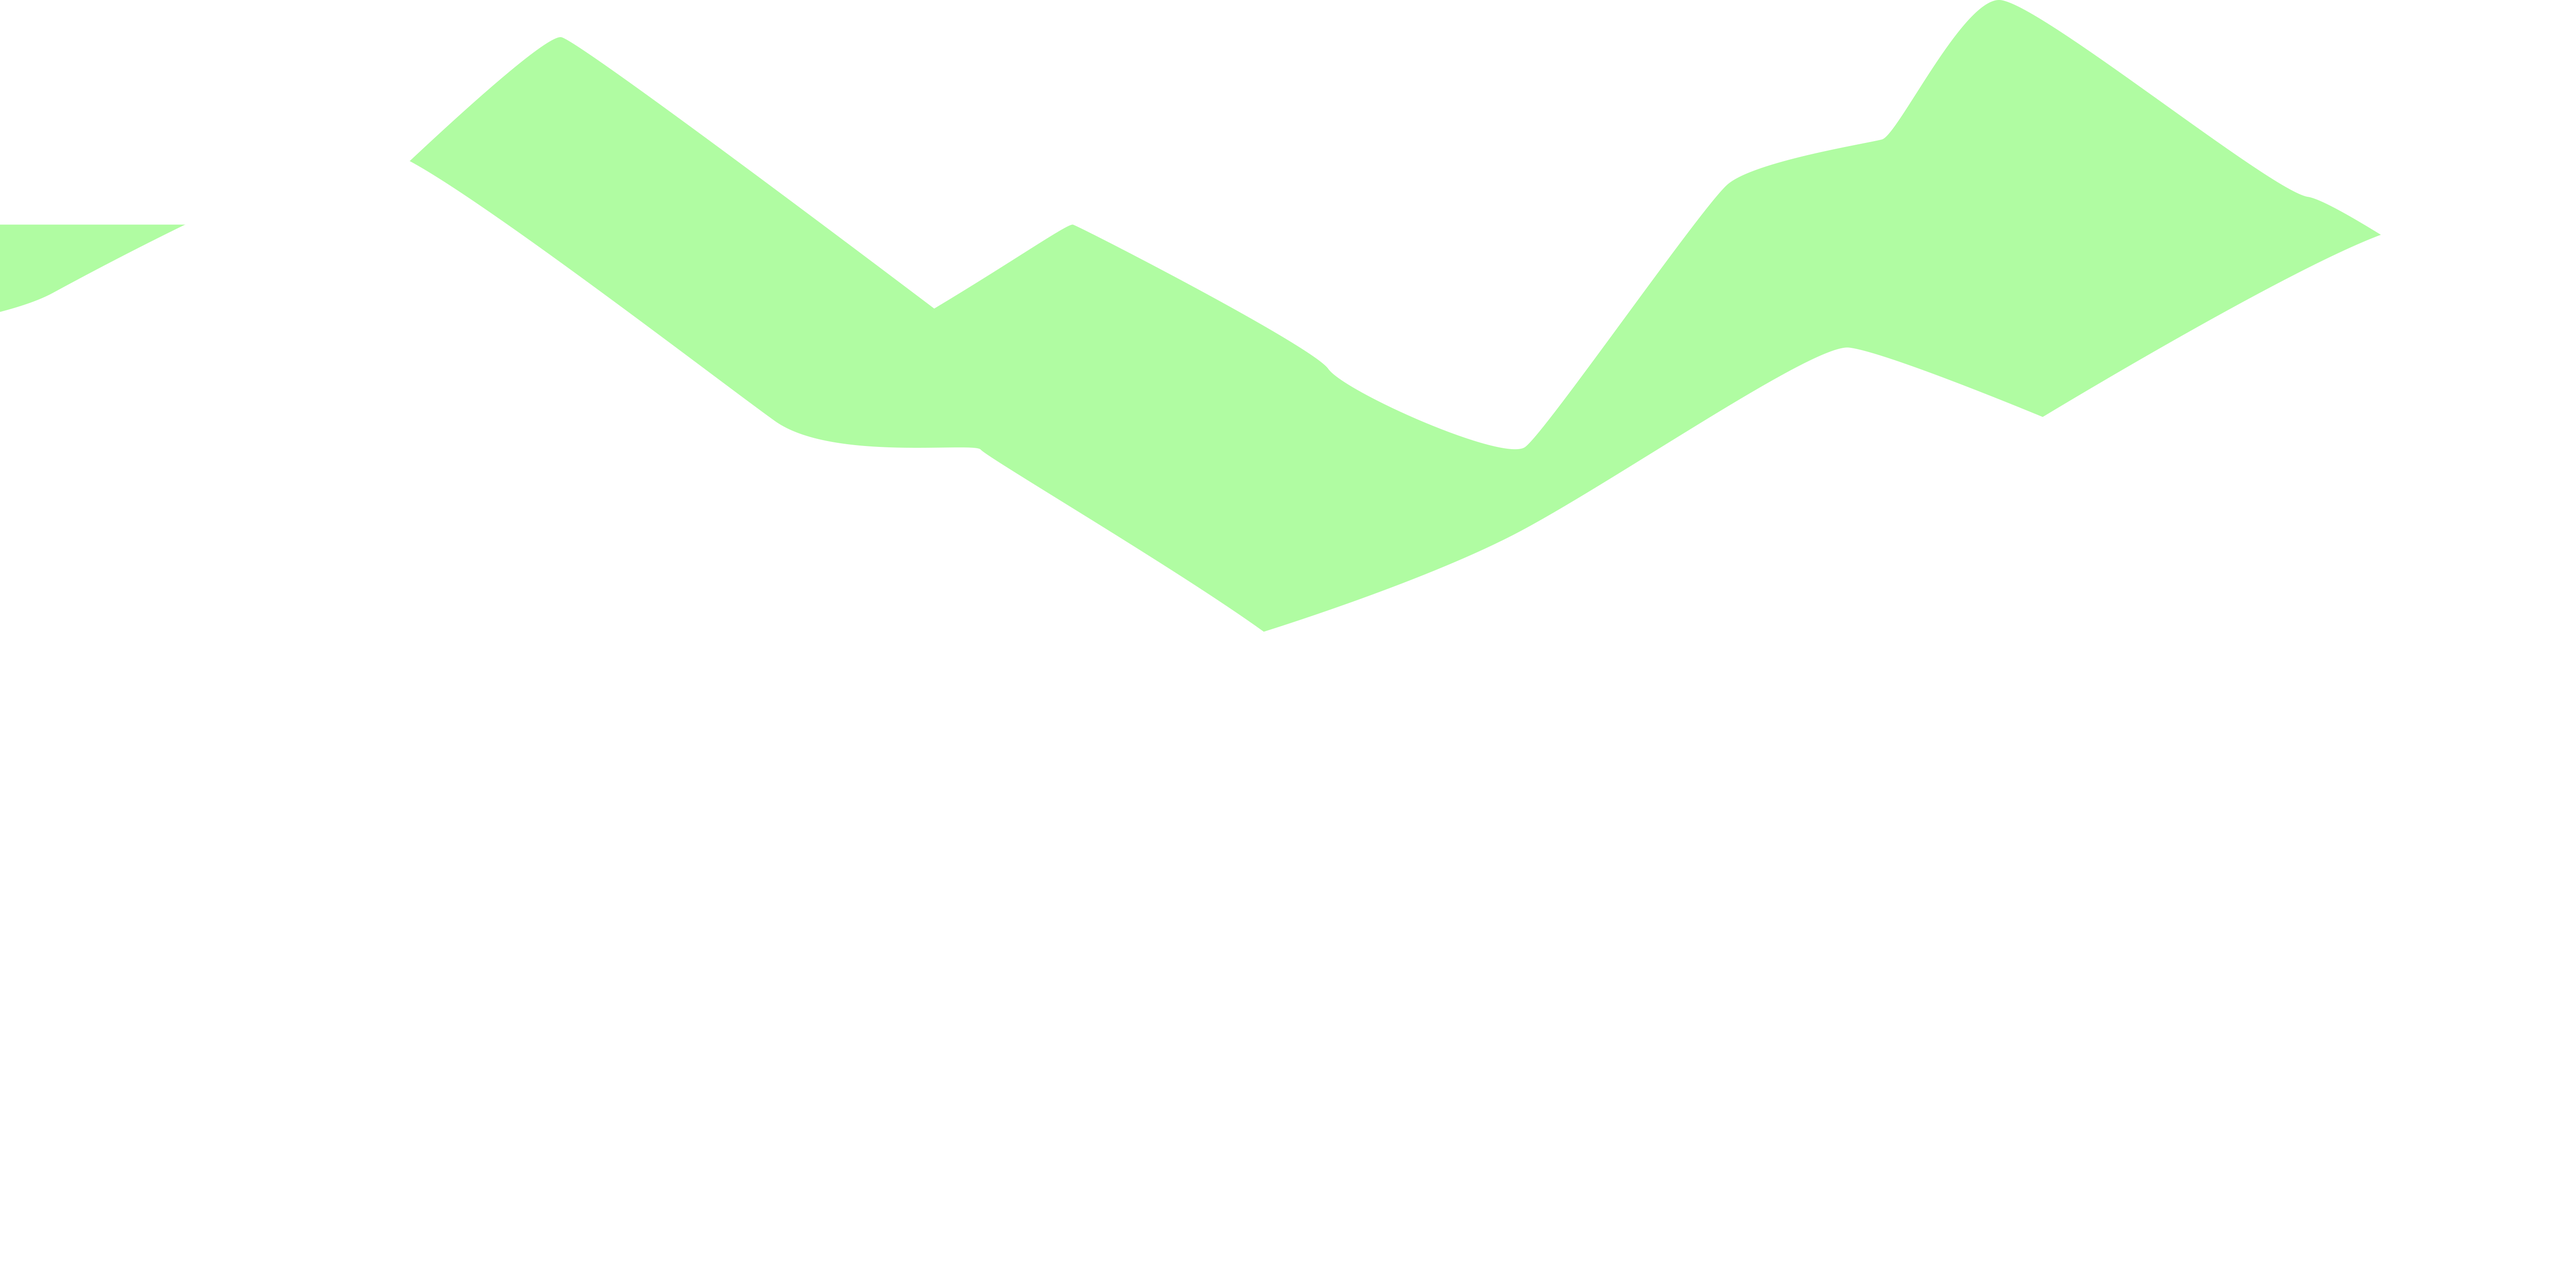
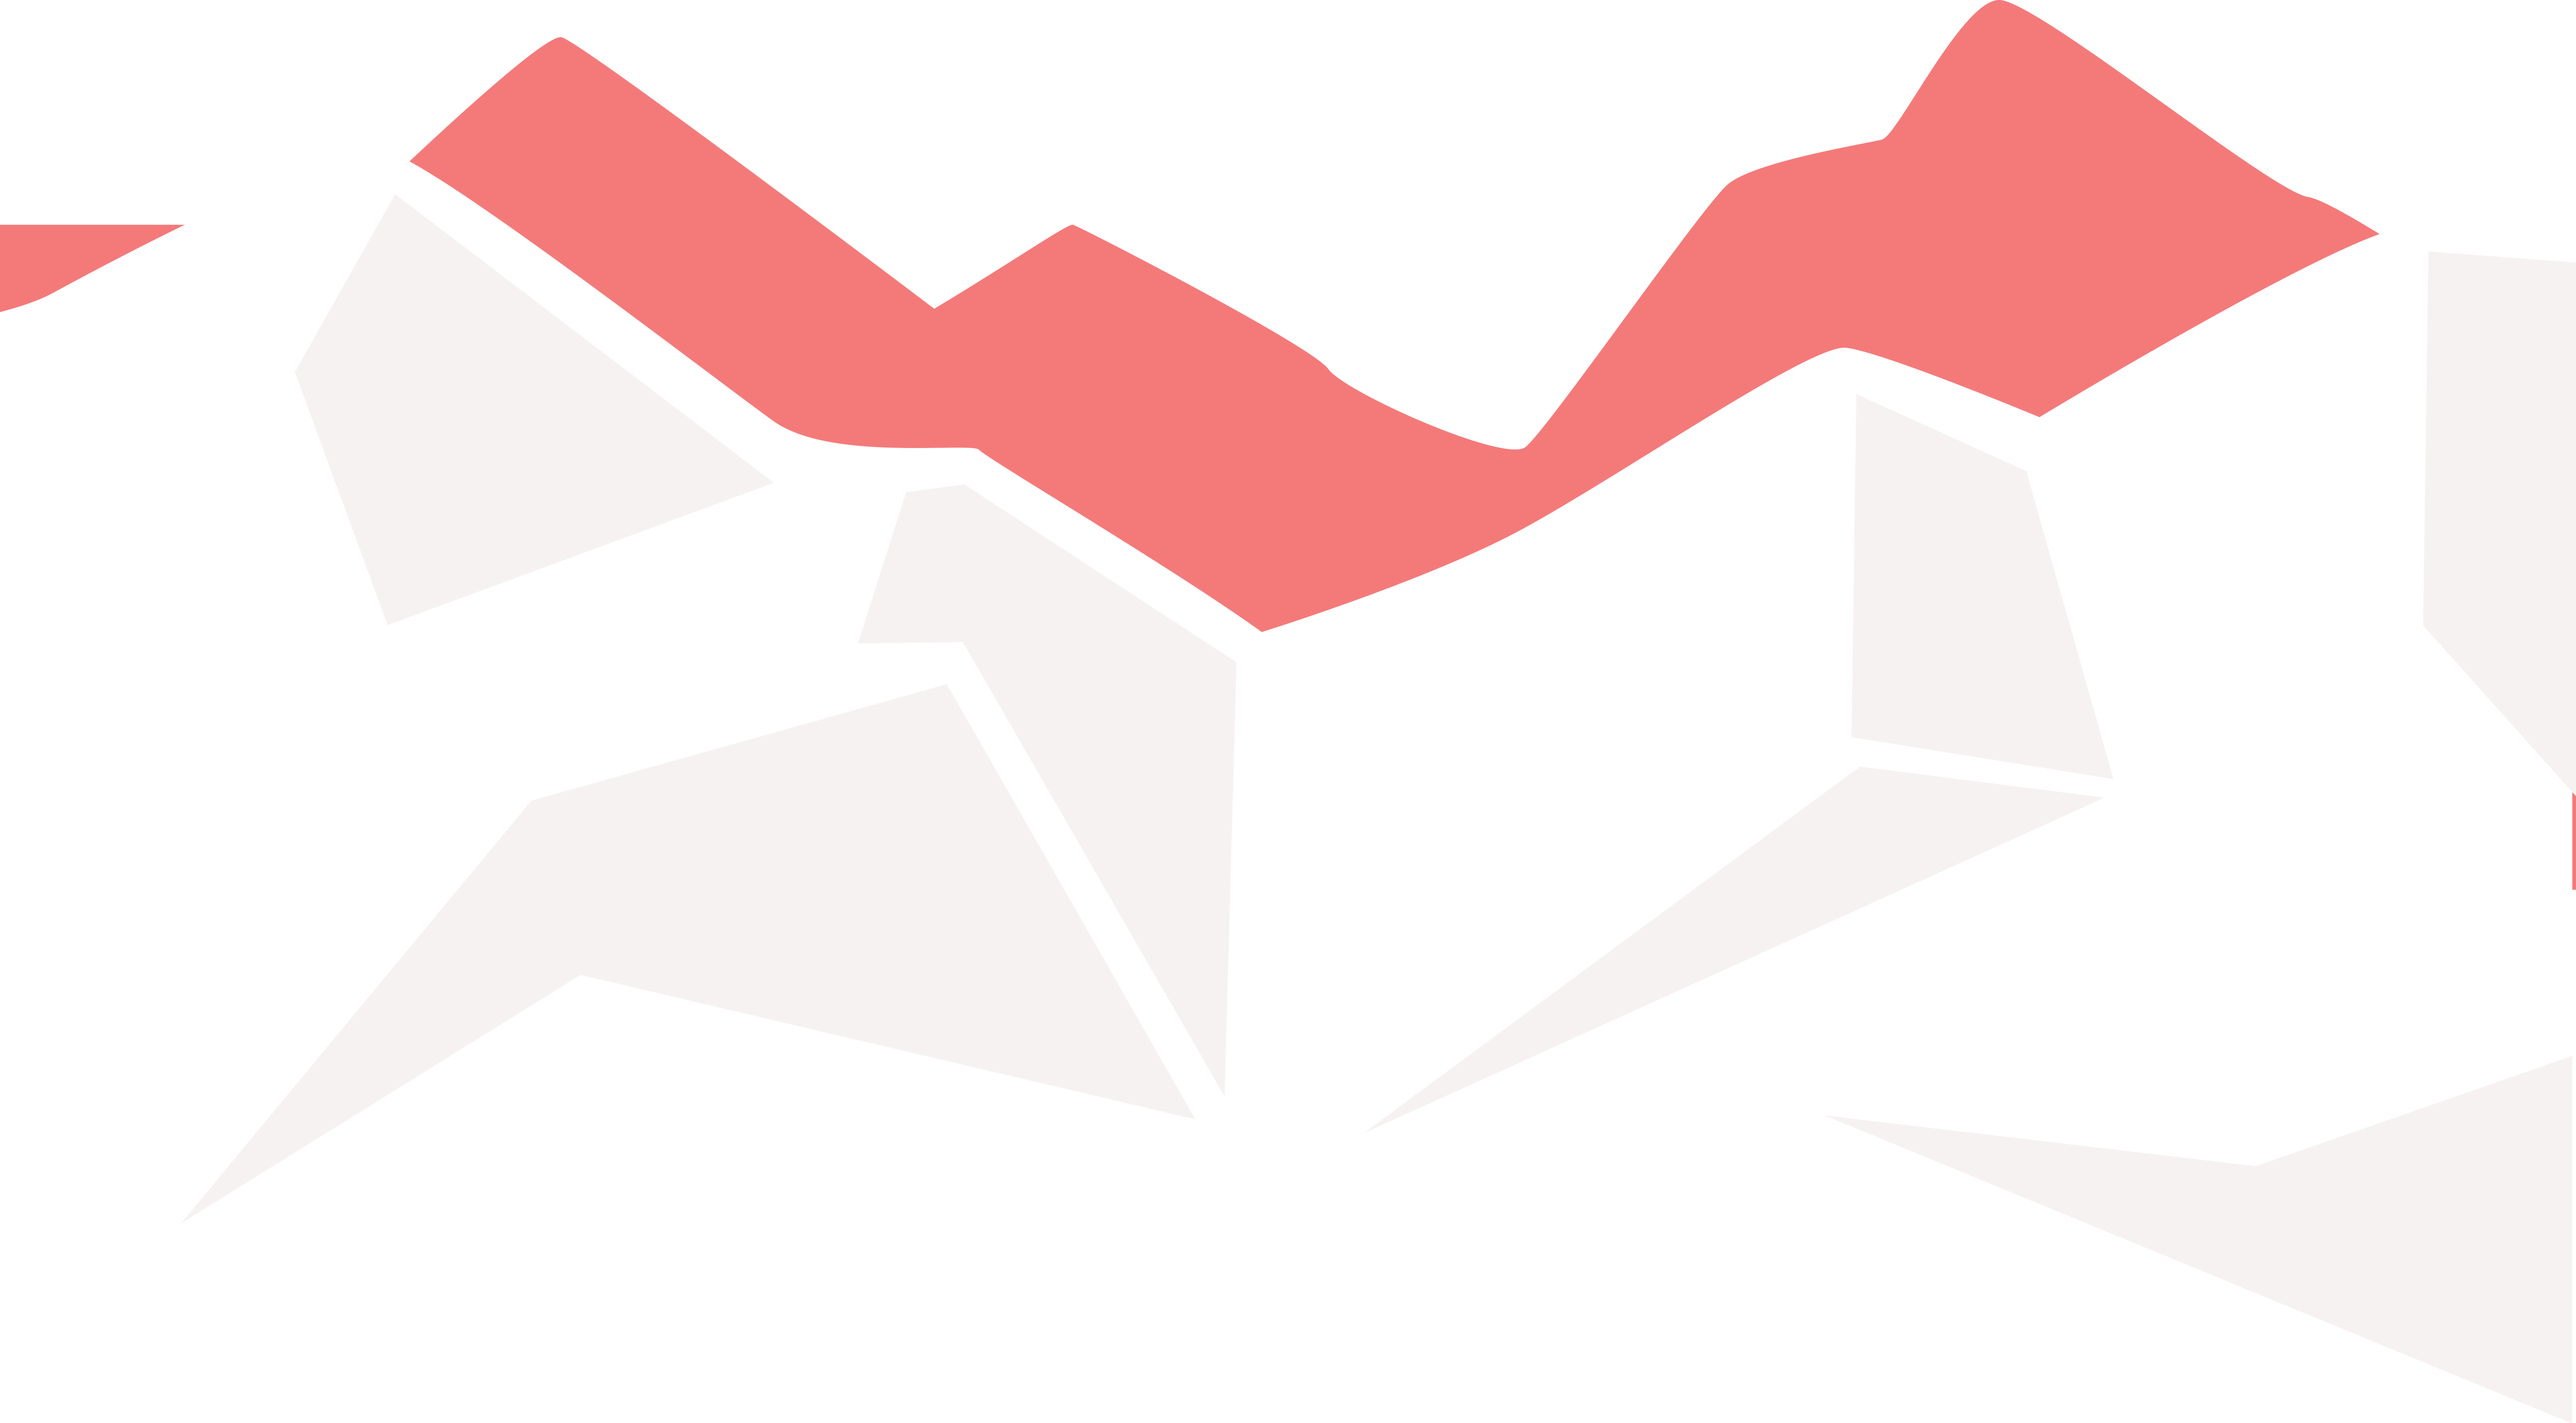
Update the background, fix up faqs

Changed region(s): [[0.1555, 0.0, 0.9331, 0.4991], [0.0, 0.156, 0.0622, 0.2496], [0.9953, 0.5615, 1.0, 0.6239]]

diff --git a/styles.css b/styles.css
@@ -1,6 +1,10 @@
 body {
   margin: 0px 0px 0px 0px;
   font-family: 'Montserrat Alternates', sans-serif;
+  background-image: url("images/GreenCircuitry.png");
+  background-size:cover;
+  background-repeat:no-repeat;
+  background-position:top;
 }
 
 #home {
@@ -8,10 +12,6 @@ body {
   display: flex;
   flex-flow: column;
   justify-content: flex-start;
-  background-image: url("images/Clouds.png");
-  background-size:contain;
-  background-repeat:no-repeat;
-  background-position:center;
 }
 
 #title {
@@ -27,8 +27,8 @@ body {
 }
 
 footer {
-  background-image: url("images/FenceFlowers.png");
-  background-size: cover;
+  /* background-image: url("images/FenceFlowers.png");
+  background-size: cover; */
   left: 0;
   right: 0;
   display: flex;
@@ -48,13 +48,17 @@ footer {
 }
 
 #top {
-  background: rgb(255,255,255);
-  background: linear-gradient(0deg, rgba(255,255,255,1) 0%, rgba(125,242,242,1) 100%);
+  background-image: url("images/Gradient-Circuit.png");
+  background-size:cover;
+  background-repeat:no-repeat;
+  background-position: top;
 }
 
 #bottom {
-  background: rgb(255,255,255);
-  background: linear-gradient(0deg, rgba(179,249,168,1) 0%, rgba(255,255,255,1) 100%);
+  /* background-image: url("images/GreenBackground-1.png");
+  background-size:cover;
+  background-repeat:no-repeat;
+  background-position:top; */
 }
 
 header {
@@ -79,6 +83,10 @@ header {
 
 .open {
   display: flex;
+}
+
+.faq-flower{
+  height:100px;
 }
 
 /* Account for Mobile Screens */
@@ -175,24 +183,8 @@ a {
   text-align: left;
 }
 
-#schedule-content {
-  padding-left: 10px;
-  padding-right: 10px;
-}
-#schedule-content h1 {
-  text-align: right;
-}
-
-#prizes-content {
-  padding-left: 10px;
-  padding-right: 10px;
-}
-#prizes-content h1 {
-  text-align: left;
-}
-
 #faq-content {
-  color: rgb(10,76,12);
+  height:20%;
   padding-left: 10px;
   padding-right: 10px;
 }
@@ -203,25 +195,35 @@ a {
   list-style-type: none;
 }
 #faq-content ul {
-  display: grid;
-  grid-template-columns: 50% 50%;
+  display: flex;
+  flex-wrap: wrap;
+  flex-flow: column;
 }
 .faq-item:hover {
   cursor: pointer;
 }
 .faq-item {
   border-bottom: 5px white solid;
-  padding:10px;
+}
+.faq-item li {
+  background-color: rgb(6,25,22);
+  color: white;
+  margin:auto;
+  padding:30px;
 }
 
-.collapsed {
-  background-color:red;
-  height:20px;
-  overflow: hidden;
+.collapsed p {
+  display:none;
 }
+
 .expanded {
-  background-color:black;
-  height:auto;
+  display:inline;
+}
+
+.expanded p {
+  background-color: white;
+  color: rgb(6,25,22);
+  padding:30px;
 }
 
 #sponsors-content {

diff --git a/index.html b/index.html
@@ -42,15 +42,7 @@
           </p>
         </div>
 
-        <div id="schedule-content" class="content-item">
-          <h1>Schedule</h1>
-          <p>BlahBlahBlah</p>
-        </div>
 
-        <div id="prizes-content" class="content-item">
-          <h1>Prizes</h1>
-          <p>BlahBlahBlah</p>
-        </div>
 
         <div id="faq-content" class="content-item">
           <h1>FAQ</h1>
@@ -90,6 +82,10 @@
               </p>
             </div>
 
+            <!-- <div>
+              <img class="faq-flower" src="images/HHFinalLogo.png"></img>
+            </div> -->
+
             <div class="faq-item collapsed">
               <li><b>Can I participate if I’m not in the US?</b></li>
               <p>
@@ -111,16 +107,6 @@
               </p>
             </div>
           </ul>
-        </div>
-
-        <div id="team-content" class="content-item">
-          <h1>Team</h1>
-          <p>BlahBlahBlah</p>
-        </div>
-
-        <div id="sponsors-content" class="content-item">
-          <h1>Sponsors</h1>
-          <p>BlahBlahBlah</p>
         </div>
 
 
